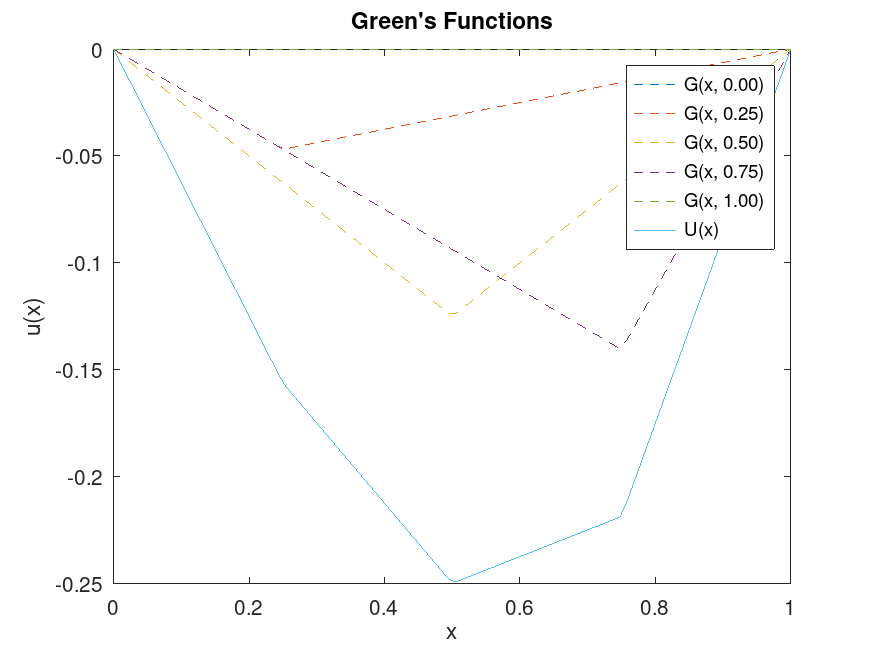
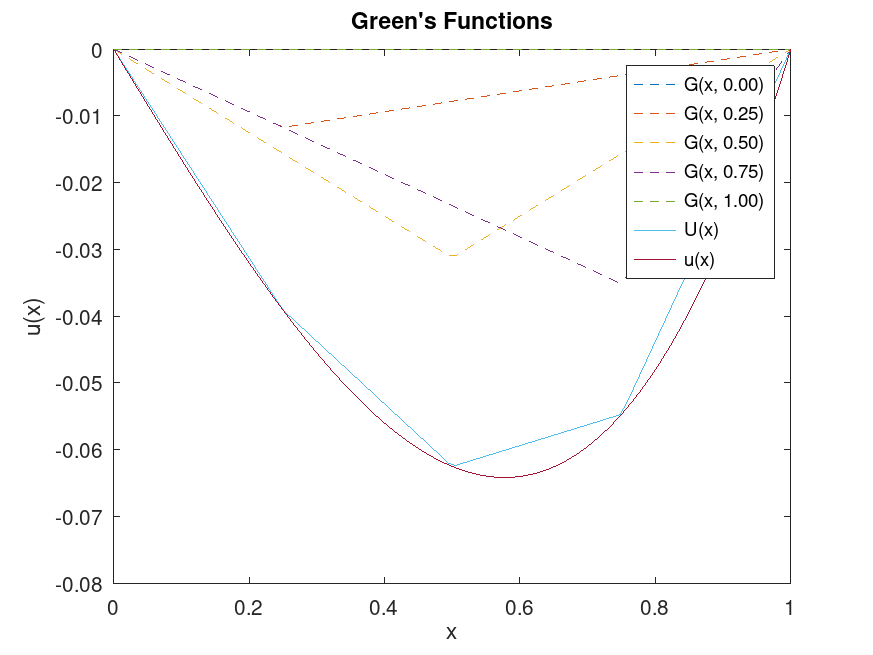
MATH5670: Fixed Homework 2 Problem 1(c).

diff --git a/2022/fall/MATH5670_ScientificComputationI/Homework2/problem_1.m b/2022/fall/MATH5670_ScientificComputationI/Homework2/problem_1.m
@@ -1,4 +1,8 @@
+#!/usr/bin/octave
+a = 0;
+b = 1;
 grid_points = 5;
+h = (b - a) / (grid_points - 1);
 x = linspace(0, 1, 20 * grid_points);
 xbar = linspace(0, 1, grid_points);
 
@@ -11,13 +15,13 @@ clf;
 y = zeros(grid_points, length(x));
 
 for i = 1:1:grid_points
-    y(i,:) = f(xbar(i)) .* green_function(xbar(i), x);
+    y(i,:) = h * f(xbar(i)) .* green_function(xbar(i), x);
     plt = plot(x, y(i,:), '--', 'DisplayName', sprintf('G(x, %0.2f)', xbar(i)));
     hold on;
 end
 
 plt = plot(x, sum(y), 'DisplayName', 'U(x)');
-% plt = plot(x, f_true(x), 'DisplayName', 'u(x)');
+plt = plot(x, f_true(x), 'DisplayName', 'u(x)');
 
 
 title("Green's Functions");
